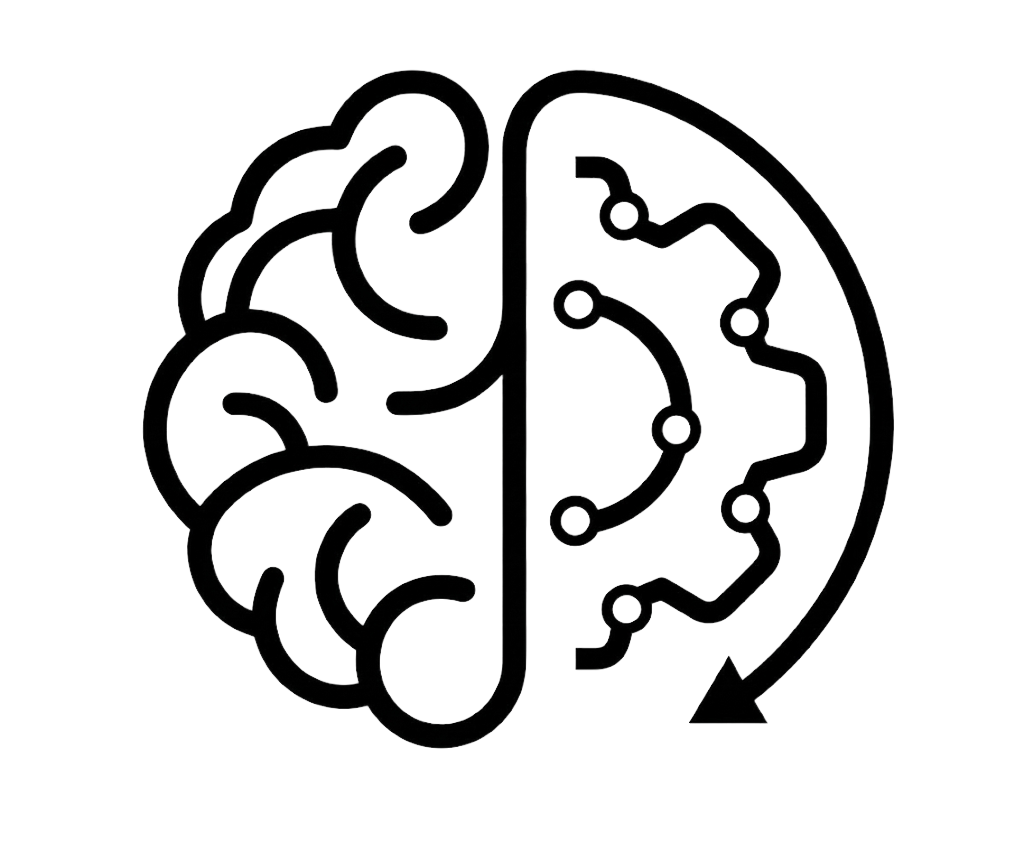
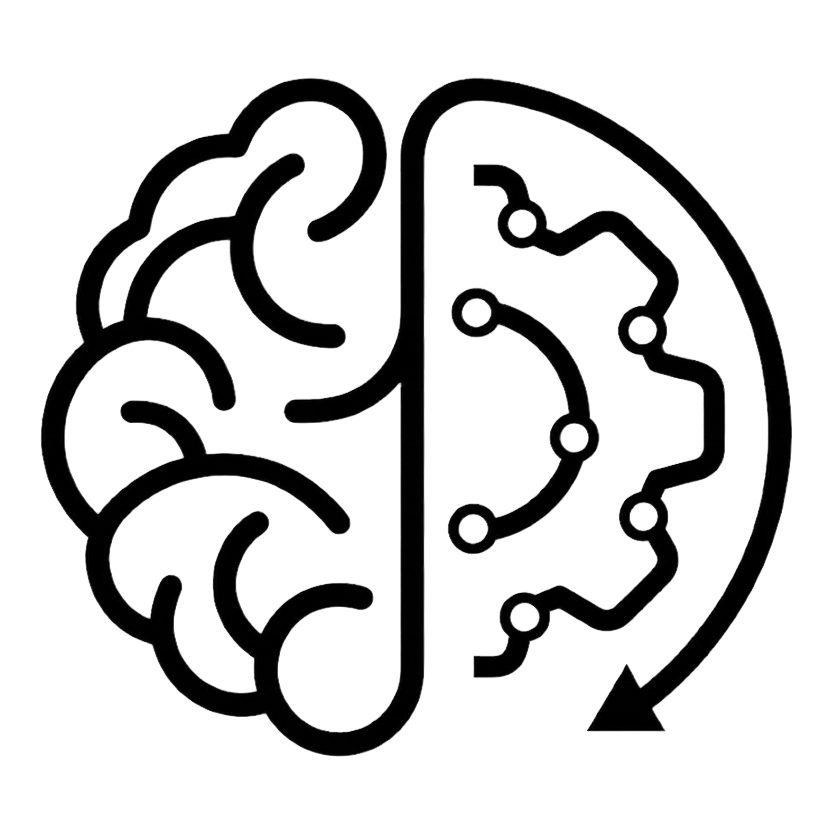
Updates

Changed region(s): [[0.0312, 0.0624, 0.9676, 0.9052]]

diff --git a/_pages/about.md b/_pages/about.md
@@ -35,7 +35,7 @@ social: true  # includes social icons at the bottom of the page
 <p style="text-align: justify;">
 <!-- Postdoc at KTH Royal Institute of Technology, Stockholm, working with Prof.
 <a target="_blank" rel="noopener noreferrer" href="https://people.kth.se/~kallej/"> Karl Henrik Johansson</a>. -->
-I am an Assistant Professor at <a target="_blank" rel="noopener noreferrer" href="https://informatics.tuwien.ac.at/orgs/e191-01">TU Wien Informatics</a>, leading the <a href="{{ '/learncps/' }}">learnCPS lab</a> where we bring together learning, optimization, and control theory to study and develop intelligent Cyber-Physical-Human Systems.
+I am an Assistant Professor at <a target="_blank" rel="noopener noreferrer" href="https://informatics.tuwien.ac.at/orgs/e191-01">TU Wien Informatics</a> and I lead the <a href="{{ '/learncps/' }}">learnCPS lab</a>, where we bring together learning, optimization, and control theory to study and develop intelligent and interacting Cyber-Physical-Human Systems.
 </p>
 <p style="text-align: justify;">
 I received my Diploma in Electrical and Computer Engineering from the National Technical University of Athens, Greece, where I worked on neuro-robotics and human-robot interaction with Prof.
@@ -43,7 +43,7 @@ I received my Diploma in Electrical and Computer Engineering from the National T
 I then pursued a Ph.D. in Electrical Engineering at the University of Maryland, College Park,
 working with Prof. <a target="_blank" rel="noopener noreferrer" href="https://ece.umd.edu/clark/faculty/357/John-S-Baras"> John S. Baras</a> on stochastic optimization, and inference and control of cyber-physical systems.
 After that, I joined KTH Royal Institute of Technology, Stockholm, as a postdoctoral associate, where I worked with Prof.
-<a target="_blank" rel="noopener noreferrer" href="https://people.kth.se/~kallej/"> Karl Henrik Johansson</a> on explainable AI, learning-based control, and communication-aware robotics, collaborating with Ericsson Research as the PI of a 2-year SSF project. 
+<a target="_blank" rel="noopener noreferrer" href="https://people.kth.se/~kallej/"> Karl Henrik Johansson</a> on learning-based control, explainable AI, and communication-aware robotics, collaborating with Ericsson Research as the PI of a 2-year SSF project. 
 <!-- For more details please refer to <a href="{{ '/cv/' }}">my CV</a> or <a href="https://informatics.tuwien.ac.at/people/christos-mavridis">my TU Wien page</a>. -->
 </p>
 
